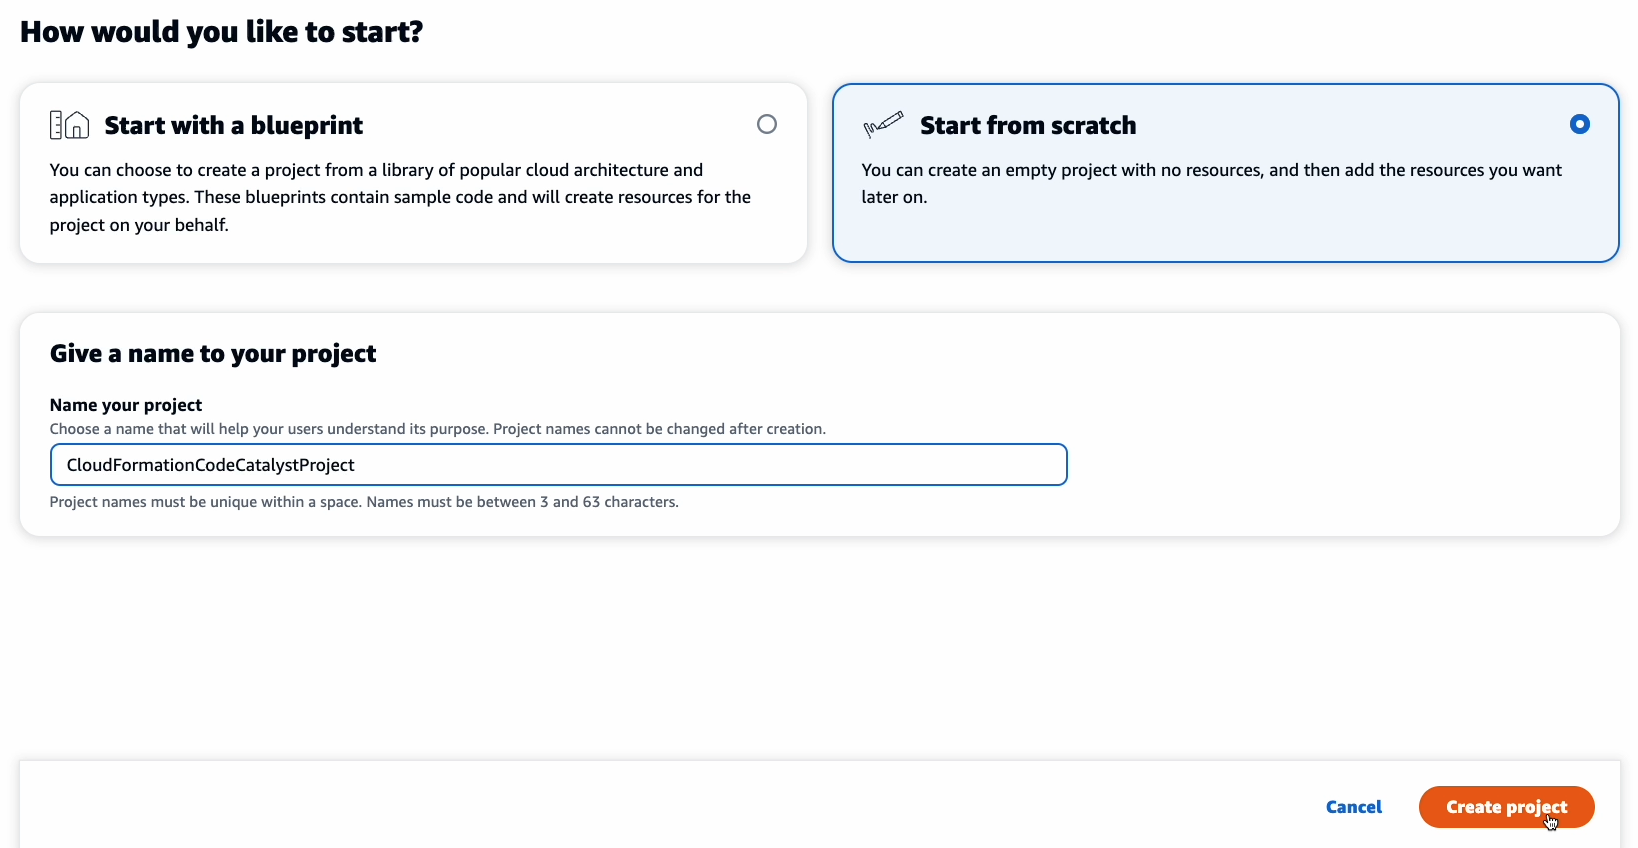
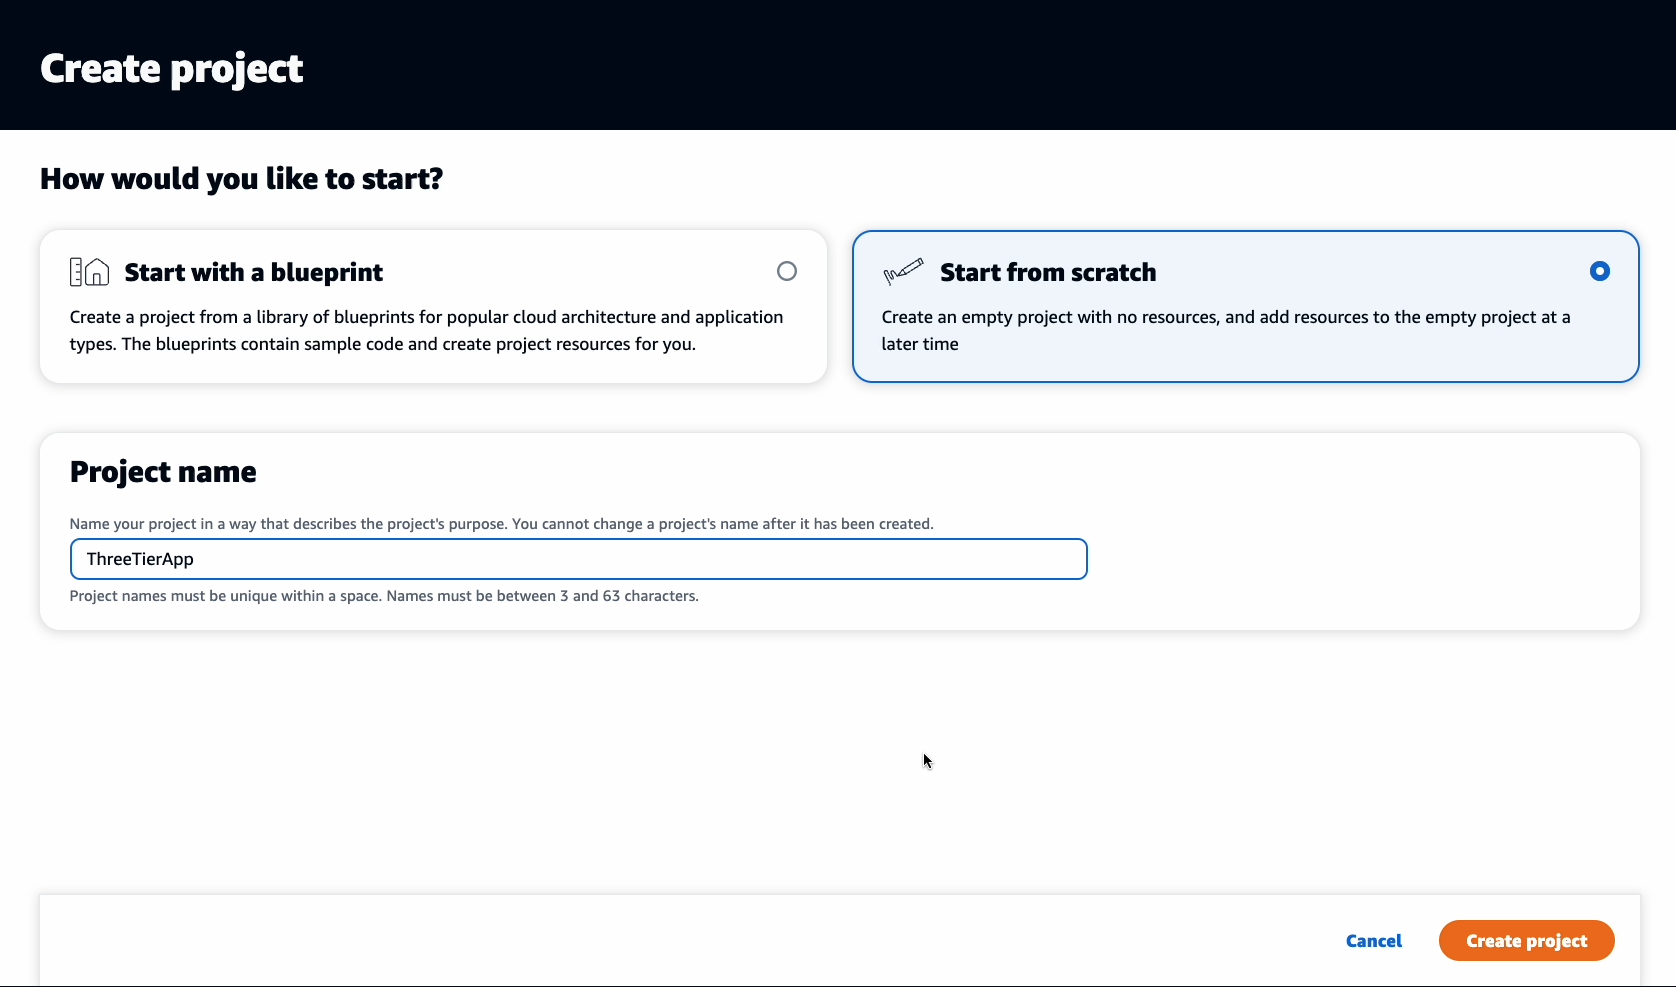
minor changes per 1st draft review
made minor changes as per review comments to the first draft. Updated URLs, clarified language, added details in the blog post for images, removed dots, fixed image for project name, fixed commit msg, added prerequisite for cloudformation.

diff --git a/tutorials/build-ci-cd-pipeline-iac-cloudformation/index.md b/tutorials/build-ci-cd-pipeline-iac-cloudformation/index.md
@@ -24,7 +24,7 @@ This tutorial will show you how to set up a CI/CD pipeline using Amazon CodeCata
 | ✅ AWS experience      | 100 - Beginner                                              |
 | ⏱ Time to complete     | 30 minutes                                                      |
 | 💰 Cost to complete    | Free tier eligible                                               |
-| 🧩 Prerequisites       | - [AWS Account](https://portal.aws.amazon.com/billing/signup#/start/email)<br>- [CodeCatalyst Account](https://codecatalyst.aws)|
+| 🧩 Prerequisites       | - [AWS Account](https://portal.aws.amazon.com/billing/signup#/start/email)<br>- [CodeCatalyst Account](https://codecatalyst.aws)<br>- AWS CloudFormation basic understanding|
 | 💻 Code Sample         | Code sample used in tutorial on [GitHub](https://github.com/build-on-aws/ci-cd-iac-aws-cloudformation)                            |
 | 📢 Feedback            | <a href="https://pulse.buildon.aws/survey/DEM0H5VW" target="_blank">Any feedback, issues, or just a</a> 👍 / 👎 ?    |
 | ⏰ Last Updated        | 2023-03-02                                                      |
@@ -37,7 +37,7 @@ This tutorial will show you how to set up a CI/CD pipeline using Amazon CodeCata
 ## Pre-requisites
 
 #### <b> AWS account. </b>
- Before we begin, ensure you have an AWS Account. You can create a new account by signing up [here]().
+ Before we begin, ensure you have an AWS Account. You can create a new account by signing up [here](https://portal.aws.amazon.com/billing/signup#/start/email).
 
 #### <b>CodeCatalyst account. </b>
 
@@ -47,7 +47,13 @@ Follow steps in the documentation to set [Setting up CodeCatalyst](https://docs.
 #### <b>IAM Roles </b>
 We need to create CloudCatalyst service roles in our AWS account. These will be using these to provide permission to CodeCatalyst. This is one time activity only.
 
-Simply deploy a CloudFormation stack named `CodeCatalyst-IAM-roles` in any region with the template provided [here](https://raw.githubusercontent.com/build-on-aws/ci-cd-iac-aws-cloudformation/cloudformation-templates/IAM_roles_CodeCatalyst.json). This will create 2 new AWS Identity and Access Management (IAM) roles - `main_branch_IAM_role` and `pr_branch_IAM_role` in your AWS account.
+Simply deploy a CloudFormation stack. You can find detailed instuctions on how to deploy this stack using AWS Console [here](https://docs.aws.amazon.com/AWSCloudFormation/latest/UserGuide/GettingStarted.Walkthrough.html#GettingStarted.Walkthrough.createstack).
+
+- Stack name `CodeCatalyst-IAM-roles` 
+- Region: any (preferred `us-west-2`)
+- Download the template provided [here](https://raw.githubusercontent.com/build-on-aws/ci-cd-iac-aws-cloudformation/main/cloudformation-templates/IAM_roles_CodeCatalyst.json) and upload this in CloudFormation console -> Create new stack -> Template -> Upload a template.
+
+This will create 2 new AWS Identity and Access Management (IAM) roles - `main_branch_IAM_role` and `pr_branch_IAM_role` in your AWS account.
 
 > Please note, the `main_branch_IAM_role` provides full access to AWS resources in EC2 and CloudFormation services, as those will be used by sample CloudFormation template mentioned in this blog. Please use this role carefully and delete it when not required.
 
@@ -79,19 +85,20 @@ Follow same steps for the `pr_branch_IAM_role`.
 #### <b>Project </b>
 Next, we create a new Project inside the space. We can have multiple projects inside a space.
 
-To create a project click on the `Create Project` button, select `Start from scratch`, and give your project a name - we will use `CloudFormationCodeCatalyst` `ThreeTierApp`
+To create a project click on the `Create Project` button, select `Start from scratch`, and give your project a name - we will use `ThreeTierApp`
 
 ![CodeCatalyst Create Project dialog](images/cc_create_project.png)
 </br>
  
 #### <b>Repository</b> 
-Now we create a new repository for our code - in our case the CloudFormation template and other resources. Click `Code` in the left-side navigation menu, then select `Source repositories`, `Add repository` and choose `Create repository`. Set a repository name ( we will use `3-tier-app` in this tutorial), add a description and any files for the .gitignore file :
+Now we create a new repository for our code - in our case the CloudFormation template and other resources. Click `Code` in the left-side navigation menu, then select `Source repositories`, `Add repository` and choose `Create repository`. Set a repository name ( we will use `3-tier-app` in this tutorial), add a description and `none` for the .gitignore file :
 
 ![CodeCatalyst Create Repository dialog](images/cc_create_repository.png)
 </br>
  
 #### <b>Environment </b>
-Lastly, we need to setup the AWS environment where our CloudFormation stack will be deployed by automated workflows. 
+Lastly, we need to setup the AWS environment where our CloudFormation stack will be deployed by automated workflows. This is my non-production environment where my sample CloudFormation template will be deployed.   
+
 From the left navigation panel, select `CI/CD`, `Environments` and click on `Create Environment`. In the Environment details enter following :
 - Environment name : `PreProdEnv`
 - Environment type : `Non-production`
@@ -112,15 +119,15 @@ To work on our infrastructure as code with CloudFormation, we need a <b>Dev Envi
   - GoLand
   - PyCharm Professional
 
-For this blog, we will be using AWS Cloud9 for our development environment. 
+For this blog, we will be using `AWS Cloud9` for our development environment. 
 
 From the left navigation panel, select `Code`, `Dev Environments`, and click on `Create Dev Environment`. In the `Create dev environment and open with AWS Cloud9` dialog box select following : 
 - Repository : `Clone a repository` 
 - Repository : Select the repo that you want to clone. We created a repo `3-tier-app1` above, so select same. 
-- Branch : `Work in existing branch` <s>or Work in new branch.</s> 
+- Branch : `Work in existing branch`
 - Alias : `bootstrap`
 
-By default, it will launch a Small (2vCPU, 4 GB RAM), 16 Gib storage with 15minutes timeout. You can optionally configure the development environment.
+By default, it will launch a Small (2vCPU, 4 GB RAM), 16 Gib storage with 15minutes timeout.
 
 ![CodeCatalyst Create Dev Environment IDE dialog](images/cc_create_dev_environment_cloud9.png) 
 
@@ -135,13 +142,13 @@ On the welcome screen, you can modify the Dev Environment Settings if you want.
 </br>
 </br>
 
-You will find an empty repository `3-tier-app`, with a readme.md, devfile.yaml and some hidden folders. The `devfile.yaml`, contains the definition to build your application libraries and toolchain. 
+You will find an empty repository `3-tier-app`, with a readme.md, devfile.yaml and some hidden folders. The `devfile.yaml`, contains the definition to build your application libraries and toolchain. You can ignore it for purpose of this tutorial.
 
 ### Sample CloudFormation template
 
 You can use your own CloudFormation template, or simply use one of the sample templates. 
 
-For this blog, I am using the a [sample template](https://raw.githubusercontent.com/build-on-aws/ci-cd-iac-aws-cloudformation/cloudformation-templates/VPC_AutoScaling_With_Public_IPs.json) that deploys a VPC with 2 subnets and publicly accessible Amazon EC2 instances that are in an Auto Scaling group behind a Load Balancer from. Feel free to use the same as I will be making changes to this template and run a pull request workflow.
+For this blog, I am using the a [sample template](https://raw.githubusercontent.com/build-on-aws/ci-cd-iac-aws-cloudformation/main/cloudformation-templates/VPC_AutoScaling_With_Public_IPs.json) that deploys a VPC with 2 subnets and publicly accessible Amazon EC2 instances that are in an Auto Scaling group behind a Load Balancer from. Feel free to use the same as I will be making changes to this template and run a pull request workflow.
 
 >In real world, you would deploy the networking infrastructure and application deployment in separate CloudFormation templates. However, to keep your first deployment with CodeCatalyst simple, lets deploy everything in a single template.
 
@@ -150,14 +157,14 @@ Let's ensure we commit our changes to our git repo using the following commands:
 # go to the root folder of the repo and run following
 
 $ cd 3-tier-app/
-$ wget https://raw.githubusercontent.com/build-on-aws/ci-cd-iac-aws-cloudformation/cloudformation-templates/VPC_AutoScaling_With_Public_IPs.json
+$ wget https://raw.githubusercontent.com/build-on-aws/ci-cd-iac-aws-cloudformation/main/cloudformation-templates/VPC_AutoScaling_With_Public_IPs.json
 
 # check git status
 $ git status
 
 # add changed files, commit and push to the git repo
 $ git add . -A
-$ git commit -m "Adding main branch workflow"
+$ git commit -m "Uploading first CloudFormation template"
 $ git push
 ```
 
@@ -192,13 +199,13 @@ To https://git.us-west-2.codecatalyst.aws/v1/CloudFormation-CodeCatalyst/ThreeTi
 ```
 </br>
 
-You can verify in the CodeCatalyst console if the CloudFormation template is successfully updated in the repo.
+You can verify if the CloudFormation template is successfully updated in the repo - in the CodeCatalyst console, click `Code` in the left-side navigation menu, then select `Source repositories`. A new file `VPC_AutoScaling_With_Public_IPs.json` should be added to the repo.
 
 </br>
 
 ## Setting up workflows to deploy non-prod environment
 
-Next step is to created automated workflows. The intention is whenever a commit is push to the main branch, trigger automated actions. In our case, we are defining only one action - deploy the updated CloudFormation template and/or update the stack.
+Next step is to create automated workflows. The intention is whenever a commit is pushed to the main branch, trigger automated actions. In our case, we are defining only one action - deploy the updated CloudFormation template and/or update the stack.
 
 Now you have 2 options for creating a workflow : 
 1. Create Workflow using Code Catalyst Console in Visual drag-drop method [navigate to CI/CD -> Workflows]
@@ -315,10 +322,10 @@ Lets say you now want to make changes to the infrastructure. For example, we wan
 
 As a **best practice**, you should never make changes directly to the main branch. We should always create a separate branch on which changes will be done, and once these changes are approved by reviewers they will be merged with main branch. There are many git branching strategies that you can explore and use for your specific org/team needs. 
 
-For this blog, I am keeping it simple. I am creating a Pull Request (PR) from the main branch, anytime I need to make changes. Also, remember this is my non-prod environment. You might have different strategies and more tests for your production environment deployment.
+For this blog, I am keeping it simple. Anytime I need to make changes, I am creating a new branch. I then create a Pull Request (PR) to merge the new branch with main branch. As shown in the image, anytime a PR is opened, CodeCatalyst will automatically run PR workflow to create a changeset. Once a reviewer approves the PR merge, then `main_workflow` we created earlier will merge the code and deploy changes to `PreProdEnv`, my non-prod environment. You might have different branching strategies and more tests for your production environment deployment.
 
 
-![Branches and workflows used in the blog](images/branching_workflows_blog_sequence.png)"Branches and workflows used in the blog"
+![Branches and workflows used in the blog](images/branching_workflows_blog_sequence.png)
 
 We are going to first write a PR workflow, so that anytime a new Pull request is created CodeCatalyst will first run this workflow. In this PR workflow, we are **NOT deploying** any changes to the PreProdEnv. When a PR is opened or revised, we are simply creating a CloudFormation changeset. 
 
@@ -408,11 +415,14 @@ Switched to a new branch 'test-pr-workflow'
 
 ### Make changes to Cloudformation template
 
-- If you are using your own CloudFormation template, make any changes to the template to create a change set.
+- If you are using **your own CloudFormation template**, make any changes to the template to create a change set.
 
-- For the sample CloudFormation template used in this blog,
-  - simply replace its content with [this already modified template](https://raw.githubusercontent.com/build-on-aws/ci-cd-iac-aws-cloudformation/cloudformation-templates/VPC_AutoScaling_With_Public_IPs-3-subnets.json). Make sure the name of template file is same(*VPC_AutoScaling_With_Public_IPs.json*), as workflow has filename mentioned in it, or
-  - you can make following changes to the template :
+- **For the sample CloudFormation template** used in this blog, you have 2 options : 
+  - simply **replace its content** with [this already modified template](https://raw.githubusercontent.com/build-on-aws/ci-cd-iac-aws-cloudformation/main/cloudformation-templates/VPC_AutoScaling_With_Public_IPs-3-subnets.json). Make sure the name of template file is same(*VPC_AutoScaling_With_Public_IPs.json*), as workflow has filename mentioned in it, 
+  
+      OR
+
+  - you can **make following changes** to the template :
 
     Add following JSON code to the sample CloudFormation template under `Resources` section. 
 
@@ -455,7 +465,6 @@ Switched to a new branch 'test-pr-workflow'
             "Public2" : { "CIDR" : "10.0.1.0/24" },
             "Public3" : { "CIDR" : "10.0.2.0/24" } 
           },
-            ...
     ```
 
     ```JSON
@@ -464,7 +473,6 @@ Switched to a new branch 'test-pr-workflow'
           "DependsOn" : "PublicRoute",
           "Properties" : {
             "VPCZoneIdentifier" : [{ "Ref" : "PublicSubnet1" }, { "Ref" : "PublicSubnet2" },  { "Ref" : "PublicSubnet3" }],
-            ...
     ```
     ```JSON
         "PublicApplicationLoadBalancer" : {
@@ -525,33 +533,45 @@ In the CodeCatalyst Console, navigate to Code -> Repository. You can see the 2 b
 ## Create Pull Request and merge code
 Now that we have all changes in the branch named `test-pr-workflow`, you can ask others to review the changes by creating a pull request. 
 
-Perform following steps to create pull request to compare the changes in the test branch with the main branch. Goto Code -> Pull requests in the CodeCatalyst console. Click on `Create pull request` and enter following details
+Perform following steps to create pull request to compare the changes in the test branch with the main branch. Goto Code -> Pull requests in the CodeCatalyst console. Click on `Create pull request` and enter following details:
+
+- Source repository : `3-tier-app`
+- Source branch : `test-pr-workflow`
+- Destination branch : `main`
+- Pull request title: `Merge new third subnet`
+- Pull request description: `New third subnet created and added to VPC, RouteTable, NACL, LoadBalancer, ASG`
 
 ![CodeCatalyst Create Pull request Dialog](images/cc_create_pull_request.png)
 </br>
  
 You can optionally add reviewers to approve/deny the merge.
 
-Note, that our source branch is `test-pr-workflow` and our destination for merge is the main branch. Once this PR is created, it will trigger the `PR_Branch_Workflow` that will create a CloudFormation changeset (and not make any deployments!). You can goto CloudFormation Console, Changeset and verify the changes proposed by the new pull request. 
+Note, that our source branch is `test-pr-workflow` and our destination for merge is the `main` branch. Once this PR is created, it will trigger the `PR_Branch_Workflow` that will create a CloudFormation changeset (and not make any deployments!). 
+
+>To see the active run for `PR_Branch_Workflow`, in the CodeCatalyst console, navigate to the `CI/CD` -> `Workflows` page and ensure you select the `test-pr-workflow` branch. By default, the Workflows page always shows the `main` branch. You have to switch branches to see the active workflow in other branches.
+
+
+You can goto CloudFormation Console, Changeset and verify the changes proposed by the new pull request. 
 
 ![Console CloudFormation Changeset ](images/console_cfn_change_set.png)
 </br>
 
 A reviewer will confirm the changes and then click on `Merge` 
 
-If there are conflicts, or if the merge can't be completed, the merge button is inactive, and a `Not mergeable` label is displayed.
+If there are conflicts, or if the merge can't be completed, the merge button is inactive, and a `Not mergeable` label is displayed.  In that case, you must obtain approval from any required approvers, resolve conflicts locally if necessary, and push those changes before you can merge.
 
 ![CodeCatalyst Mergeable request all green](images/cc_mergeable_request.png)
  
 </br>
 At this point you have 2 options for merge strategies. :
 
-1. **Fast forward merge** - Merges the branches and moves the destination branch pointer to the tip of the source branch. This is the default merge strategy in Git.
+1. **Fast forward merge** (select this option) - Merges the branches and moves the destination branch pointer to the tip of the source branch. This is the default merge strategy in Git. Select this option for this blog. 
 </br>
 
 2. **Squash and merge** - Combines all commits from the source branch into single merge commit in the destination branch.
 
-You can optionally, delete the source branch after merging this pull request. In our case the source branch is `test-pr-workflow` and I am deleting this branch to keep my branching structure clean and simple. 
+You can optionally, delete the source branch after merging this pull request. 
+In our case, the source branch is `test-pr-workflow` and I am deleting this branch to keep my branching structure clean and simple. 
 
 ![CodeCatalyst Merge Pull request](images/cc_merge_pull_request.png)
 </br>
